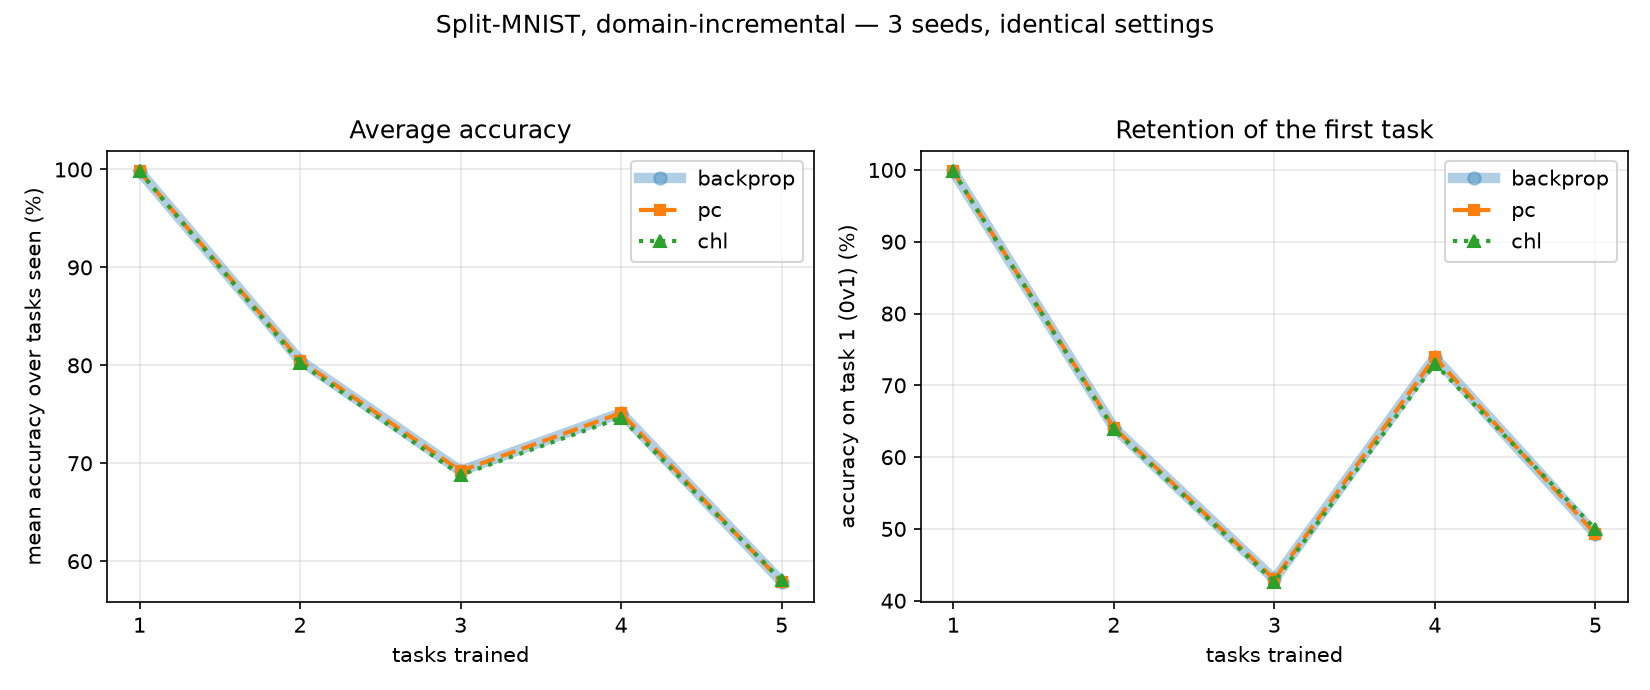
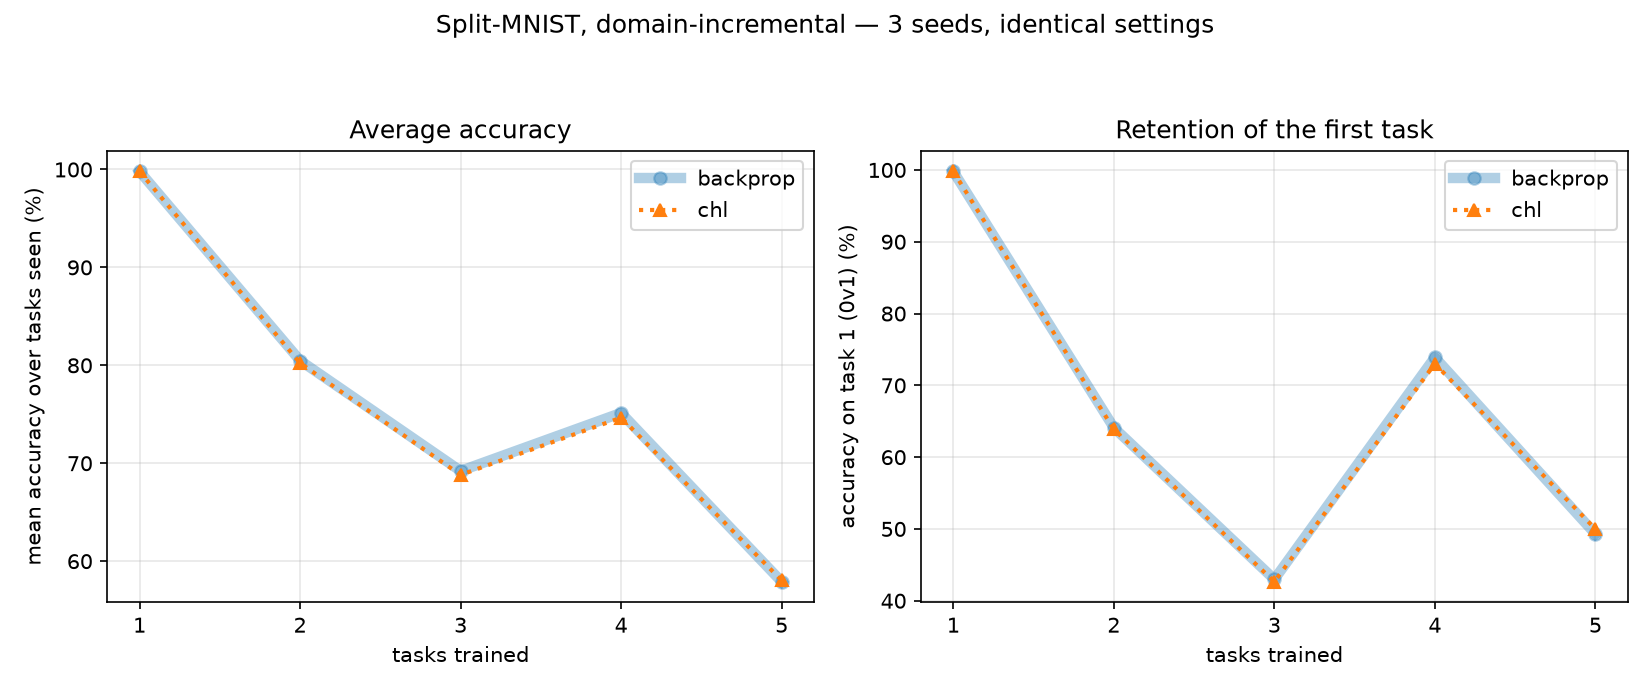
refactor: narrow scope to CHL vs backprop, drop predictive coding
The predictive-coding arm is removed and the experiment re-run with the two
remaining rules. Recorded as Amendment 2 in the pre-registration rather than
applied silently, because the change was made after the results were known and
that is exactly the kind of edit a reader should be able to audit.

Why it does not touch the finding: under the fixed-prediction assumption PC
computes literally the same gradient as backprop (verified to 2.8e-16 in
float64), so its arm was a correctness check on the implementation rather than
an independent condition, and it scored identically to backprop as it must.
Removing it changes no number for backprop or CHL — the re-run reproduced both
exactly, same seeds, same settings. The finding stands: CHL forgets as much as
backprop, 50.35pp +/-0.75 against 50.59pp +/-0.67.

Dropping the third arm removes a source of confusion, not evidence. Every
mention of it needed the caveat "this is validation, not a finding"; with one
comparison left the result reads directly.

Deletes rules/predictive_coding.py and its equivalence test, drops PC from the
rule registry, the sanity test, the experiment driver and the plot styles, and
rewrites README and the pre-registration for two rules. 13 tests down to 7, all
green. The prior three-rule results remain in git history.

diff --git a/experiments/run_continual_comparison.py b/experiments/run_continual_comparison.py
@@ -1,7 +1,7 @@
 """Split-MNIST: do local learning rules forget differently from backprop?
 
-Settings are fixed by ``docs/preregistration.md`` and are identical for all three rules.
-No rule gets its own tuning pass.
+Settings are fixed by ``docs/preregistration.md`` and are identical for both rules.
+Neither rule gets its own tuning pass.
 
 Two protocols, both reported (see Amendment 1 in the pre-registration)::
 
@@ -9,7 +9,7 @@ Two protocols, both reported (see Amendment 1 in the pre-registration)::
     uv run python experiments/run_continual_comparison.py --protocol domain
 
 ``task`` is the originally pre-registered setting and produces a floor effect — almost no
-forgetting for any rule, so it cannot separate them. ``domain`` shares a single output head
+forgetting for either rule, so it cannot separate them. ``domain`` shares a single output head
 across the five tasks, which makes them interfere and is where the comparison has signal.
 """
 
@@ -27,7 +27,7 @@ from forgetlab.layers import LayeredNet
 from forgetlab.metrics import average_accuracy, average_forgetting, per_task_forgetting
 from forgetlab.train import accuracy, train
 
-RULES = ["backprop", "pc", "chl"]
+RULES = ["backprop", "chl"]
 SETTLE = dict(n_steps=64, dt=0.5, tol=1e-8)
 RESULTS = Path("results")
 
@@ -192,12 +192,11 @@ def _plot(matrices, args, suffix: str) -> None:
     fig, (left, right) = plt.subplots(1, 2, figsize=(11, 4.6))
     stages = range(1, 6)
 
-    # The whole point of the result is that the three curves land on top of each other, so
-    # they must stay individually visible: a wide translucent line under two thinner dashed
-    # ones, rather than three opaque lines where only the last drawn is seen.
+    # The whole point of the result is that the two curves land on top of each other, so
+    # they must stay individually visible: a wide translucent line under a thinner dashed
+    # one, rather than two opaque lines where only the last drawn is seen.
     style = {
         "backprop": dict(linestyle="-", marker="o", linewidth=5, alpha=0.35),
-        "pc": dict(linestyle="--", marker="s", linewidth=2, markersize=5),
         "chl": dict(linestyle=":", marker="^", linewidth=2, markersize=6),
     }
 

diff --git a/tests/test_single_task_sanity.py b/tests/test_single_task_sanity.py
@@ -51,19 +51,10 @@ def _run(rule, data):
     return accuracy(net, x_test, y_test)
 
 
-@pytest.mark.parametrize("rule", ["backprop", "pc", "chl"])
+@pytest.mark.parametrize("rule", ["backprop", "chl"])
 def test_rule_learns(rule, data):
-    """Well clear of the 10% chance floor, under a budget shared by all three rules."""
+    """Well clear of the 10% chance floor, under a budget shared by both rules."""
     assert _run(rule, data) > 0.80
-
-
-def test_pc_tracks_backprop_through_a_whole_training_run(data):
-    """Exactness is not just a one-batch property.
-
-    The fixed-prediction assumption makes PC's update *identical* to backprop's, so the two
-    should follow the same trajectory for an entire run, not merely start at the same place.
-    """
-    assert abs(_run("pc", data) - _run("backprop", data)) < 0.02
 
 
 def test_chl_stays_close_to_backprop(data):

diff --git a/forgetlab/rules/backprop.py b/forgetlab/rules/backprop.py
@@ -27,8 +27,8 @@ def backprop_updates(
 ) -> tuple[list[torch.Tensor], list[torch.Tensor]]:
     """Return ``(dW, db)`` — the weight changes to **add**, i.e. the descent direction.
 
-    These are ``-dLoss/dW``, so they are directly comparable to what ``chl_updates`` and
-    ``pc_updates`` return.  Multiply by a learning rate and add.
+    These are ``-dLoss/dW``, so they are directly comparable to what ``chl_updates``
+    returns.  Multiply by a learning rate and add.
     """
     for p in list(net.W) + list(net.b):
         if p.grad is not None:

diff --git a/forgetlab/rules/__init__.py b/forgetlab/rules/__init__.py
@@ -2,12 +2,10 @@
 
 from forgetlab.rules.backprop import backprop_updates
 from forgetlab.rules.chl import chl_updates
-from forgetlab.rules.predictive_coding import pc_updates
 
 RULES = {
     "backprop": backprop_updates,
-    "pc": pc_updates,
     "chl": chl_updates,
 }
 
-__all__ = ["RULES", "backprop_updates", "chl_updates", "pc_updates"]
+__all__ = ["RULES", "backprop_updates", "chl_updates"]

diff --git a/forgetlab/__init__.py b/forgetlab/__init__.py
@@ -1,4 +1,4 @@
-"""ForgetLab — contrastive Hebbian learning and predictive coding, from scratch."""
+"""ForgetLab — contrastive Hebbian learning from scratch, measured against backprop."""
 
 from forgetlab.layers import LayeredNet
 

diff --git a/README.md b/README.md
@@ -1,9 +1,9 @@
 # ForgetLab
 
-From-scratch implementations of **Contrastive Hebbian Learning** (Xie & Seung, 2003) and
-**Predictive Coding** (Whittington & Bogacz, 2017) in PyTorch, validated against the
-published theorems that relate them to backpropagation, and then used to run one small,
-controlled continual-learning comparison against backprop on Split-MNIST.
+A from-scratch implementation of **Contrastive Hebbian Learning** (Xie & Seung, 2003) in
+PyTorch, validated against the published theorem that relates it to backpropagation, and
+then used to run one small, controlled continual-learning comparison against backprop on
+Split-MNIST.
 
 ## Result
 
@@ -12,21 +12,16 @@ On domain-incremental Split-MNIST, with an identical tuning budget and 3 seeds:
 | rule | final accuracy | forgetting | joint-training ceiling |
 |---|---|---|---|
 | backprop | 57.90% ±0.42 | 50.59 pp ±0.67 | 89.75% |
-| predictive coding | 57.90% ±0.42 | 50.59 pp ±0.67 | 89.75% |
 | contrastive Hebbian | 58.03% ±0.36 | **50.35 pp ±0.75** | 89.84% |
 
 ![forgetting curves](results/forgetting_curves_domain.png)
 
-**The local learning rules forget just as much as backpropagation.** With 51 percentage
+**The local learning rule forgets just as much as backpropagation.** With 51 percentage
 points of forgetting available to separate them, CHL differs from backprop by 0.24 pp
 against a seed-to-seed standard deviation of 0.7 — indistinguishable.
 
-Two things this result is *not*:
+One thing this result is *not*:
 
-- **PC matching backprop exactly is a validation, not a finding.** Under the fixed
-  prediction assumption predictive coding computes literally the same gradient (verified to
-  2.8e-16), so identical forgetting is the expected outcome and confirms the implementation
-  is correct. Reporting it as evidence about biology would be circular.
 - **This does not show that the brain's mechanisms do not help.** What was swapped is the
   *credit assignment* mechanism, holding everything else fixed. Replay, neuromodulation,
   sparsity and structural plasticity — all things brains have and this experiment does not —
@@ -34,7 +29,7 @@ Two things this result is *not*:
   nothing against catastrophic forgetting here.
 
 The originally pre-registered **task-incremental** protocol is also reported, and produced a
-floor effect: forgetting of −0.03 pp ±0.22, with all three rules at 98.4% and the joint
+floor effect: forgetting of −0.03 pp ±0.22, with both rules at 98.4% and the joint
 ceiling (98.15%) no better than sequential training. Separate heads plus transferable stroke
 features mean the tasks barely interfere, so that protocol cannot separate the rules at all.
 It is kept because "this benchmark has no signal" is itself worth recording. See Amendment 1
@@ -67,9 +62,9 @@ per-task forgetting numbers should not be read as a memory-strength ranking.
 ### Scope of the claim
 
 On this architecture, on Split-MNIST, in these two settings, with an identical tuning
-budget, these rules forgot this much. Nothing about depth, other datasets,
-class-incremental settings, or language models. PC and CHL are documented to degrade with
-depth, and this experiment deliberately stays in the shallow regime where they work — which
+budget, these two rules forgot this much. Nothing about depth, other datasets,
+class-incremental settings, or language models. CHL is documented to degrade with
+depth, and this experiment deliberately stays in the shallow regime where it works — which
 is exactly why it cannot support a general claim.
 
 ### Reproduce
@@ -84,14 +79,14 @@ CPU only, a few minutes total.
 
 ## What this is / is not
 
-- **Is:** a minimal, tested, readable implementation of two local learning rules, plus a
+- **Is:** a minimal, tested, readable implementation of one local learning rule, plus a
   small pre-registered replication of a specific literature claim.
 - **Is not:** a new method, a SOTA result, or a general-purpose library. There is no claim
   here that biologically-motivated learning rules are better than backprop at anything.
 
 ## Why it exists
 
-Predictive coding accounts of the brain stress that cortex learns **continuously and
+Accounts of the brain stress that cortex learns **continuously and
 locally** from an ongoing sensory stream, while a language model is trained **offline and
 globally** by backpropagation and cannot absorb a new example without disturbing its
 weights. That contrast is usually stated qualitatively. This repository turns one narrow
@@ -100,19 +95,16 @@ do what their theorems say, then check whether they actually forget differently.
 
 ## The narrow claim
 
-A minimal, tested, PyTorch-native implementation of Contrastive Hebbian Learning and
-Predictive Coding, validated against their published equivalence theorems, used to run a
-controlled task-incremental continual-learning comparison against backprop.
+A minimal, tested, PyTorch-native implementation of Contrastive Hebbian Learning,
+validated against its published equivalence theorem, used to run a controlled
+continual-learning comparison against backprop.
 
 Existing CHL code is embedded in large cognitive architectures
 ([Leabra/GeneRec](https://github.com/emer/leabra),
 [PsyNeuLink](https://princetonuniversity.github.io/PsyNeuLink/ContrastiveHebbianMechanism.html)),
 hardware-specific ([Vivilux](https://github.com/NeuroSumbaD/Vivilux)), a single-paper
 research script ([Dual-Propagation](https://github.com/Rasmuskh/Dual-Propagation)), or dead
-single-file demos. Existing PC libraries are JAX-based
-([pcx](https://github.com/liukidar/pcx), [jpc](https://github.com/thebuckleylab/jpc)) or
-`nn.Sequential`-only ([Torch2PC](https://github.com/RobertRosenbaum/Torch2PC)). None of them
-run this comparison.
+single-file demos. None of them run this comparison.
 
 That is the whole claim. It is *not* "no CHL implementation exists" — that is false, and
 the repos above are why.
@@ -125,8 +117,6 @@ the repos above are why.
 | [PsyNeuLink](https://princetonuniversity.github.io/PsyNeuLink/ContrastiveHebbianMechanism.html) | Princeton's cognitive-modelling toolkit, actively maintained, ships a first-class `ContrastiveHebbianMechanism`. | Modelling framework, not a PyTorch trainer; no equivalence-to-backprop test suite. |
 | [Vivilux](https://github.com/NeuroSumbaD/Vivilux) | CHL on simulated photonic hardware. Actively maintained. | Hardware-specific. |
 | [Dual-Propagation](https://github.com/Rasmuskh/Dual-Propagation) | An accelerated CHL variant using dyadic neurons (JAX/Julia). | A faster formulation. This repo implements the original 2003 equations deliberately, because the point is to test *that* theorem — pedagogical clarity over speed. |
-| [Bogacz-Group/PredictiveCoding](https://github.com/Bogacz-Group/PredictiveCoding) | The Oxford lab's PC library + tutorial notebooks. Best place to learn PC. | Reference for correctness here, not a dependency. |
-| [Torch2PC](https://github.com/RobertRosenbaum/Torch2PC) | PyTorch PC, companion to Rosenbaum's divergence analysis. | `nn.Sequential`-only, stale since Feb 2024, no CHL. |
 | [Lillicrap et al. 2016](https://www.nature.com/articles/ncomms13276) | Feedback Alignment: random fixed feedback weights still support learning, because the forward weights align to them. | A different algorithm proving a different claim. "Still learns" is not "equals the backprop gradient", so the weights here stay tied. |
 
 ## Honest statement of the theorem's cost
@@ -144,7 +134,7 @@ CHL's `γ` is not Equilibrium Propagation's `β`.
 ```
 docs/limits.md      which theorem needs which limit and which assumption
 forgetlab/layers.py the shared layered network with tied, weak feedback
-forgetlab/rules/    backprop (reference), predictive coding, CHL
+forgetlab/rules/    backprop (reference), CHL
 forgetlab/metrics.py per-layer gradient alignment
 tests/              the equivalence anchors
 ```

diff --git a/docs/preregistration.md b/docs/preregistration.md
@@ -7,11 +7,11 @@ if the budget had been equal.
 
 ## Question
 
-On task-incremental Split-MNIST, do the local learning rules (predictive coding,
-contrastive Hebbian learning) forget differently from backpropagation?
+On task-incremental Split-MNIST, does contrastive Hebbian learning forget differently
+from backpropagation?
 
 This is a **replication-and-extension** question, not a new-method question. No claim of
-superiority is being tested. A null result — all three forget the same amount — is a valid
+superiority is being tested. A null result — both forget the same amount — is a valid
 and publishable outcome, and is the outcome currently considered most likely.
 
 ## Fixed setup
@@ -27,18 +27,18 @@ and publishable outcome, and is the outcome currently considered most likely.
 | Train set | 1000 images per task |
 | Test set | full MNIST test split for the two digits of each task |
 | γ (CHL) | 0.1 |
-| Inference steps (PC, CHL) | 64, `dt = 0.5`, `tol = 1e-8` |
+| Inference steps (CHL) | 64, `dt = 0.5`, `tol = 1e-8` |
 | Seeds | 3 (0, 1, 2) |
 | No | replay, rehearsal, EWC/SI, regularisation, momentum, LR schedule, early stopping |
 
-## Tuning budget — identical for all three rules
+## Tuning budget — identical for both rules
 
-**One shared learning rate and epoch count, chosen once, applied to all three rules
+**One shared learning rate and epoch count, chosen once, applied to both rules
 unchanged.** No per-rule tuning. If a rule performs badly under the shared setting, that is
 reported as a result, not fixed by giving that rule its own hyperparameters.
 
 The shared values are chosen by the single-task sanity check below, using **backprop only**,
-before any continual-learning run. PC and CHL never get a tuning pass.
+before any continual-learning run. CHL never gets a tuning pass.
 
 Known constraint found while calibrating: `lr = 0.2` with a 512-unit hidden layer **diverges**
 (9.8% test accuracy, i.e. chance). The shared learning rate must be verified non-divergent
@@ -60,12 +60,11 @@ plain SGD on that objective plateaus lower. Measured ceiling with backprop on fu
 | 256 | 40 | 0.1 | sigmoid | 94.94% |
 | 512 | 60 | 0.2 | linear | 9.80% (diverged) |
 
-So the sanity bar is: **each rule reaches ≈94–95% on full single-task MNIST, and the three
+So the sanity bar is: **each rule reaches ≈94–95% on full single-task MNIST, and the two
 agree with each other**, not "each rule reaches 98%". Holding to the original figure would
 have made a correctly-implemented CHL look broken.
 
-Measured, full MNIST, 20 epochs, identical settings: backprop 94.07%, PC 94.07%,
-CHL 94.30%. PC matches backprop exactly, as the fixed-prediction assumption requires.
+Measured, full MNIST, 20 epochs, identical settings: backprop 94.07%, CHL 94.30%.
 
 ## Metrics
 
@@ -85,17 +84,17 @@ Reported per rule, mean ± standard deviation over the 3 seeds, plus per-task fo
 **Can be claimed:** on this architecture, on Split-MNIST, in the task-incremental setting,
 with an identical tuning budget, rule X forgot *this much*.
 
-**Will not be claimed:** that predictive coding or CHL forgets less than backprop *in
-general*; that local rules are more robust to catastrophic forgetting; any statement about
-depth, other datasets, class-incremental settings, or language models. The literature is
-explicit that PC and CHL degrade with depth, and this experiment is deliberately run in the
-shallow regime where they are documented to work — which is exactly why it cannot support a
+**Will not be claimed:** that CHL forgets less than backprop *in general*; that local
+rules are more robust to catastrophic forgetting; any statement about depth, other
+datasets, class-incremental settings, or language models. The literature is explicit that
+CHL degrades with depth, and this experiment is deliberately run in the shallow regime
+where it is documented to work — which is exactly why it cannot support a
 general claim.
 
 ## Amendment 1 — adding a second protocol, before the comparison was run
 
 The task-incremental protocol above was run first, with backprop, and produced a **floor
-effect**: average forgetting of 0.07 percentage points, with all three rules at 98.36%
+effect**: average forgetting of 0.07 percentage points, with both rules at 98.36%
 accuracy. There is nothing to compare.
 
 The cause is structural, not a bug. Each task has its own head, and the shared trunk learns
@@ -117,7 +116,7 @@ Measured with backprop, same settings, before any rule comparison:
 | task-incremental (5 heads) | 98.36% | 0.07 pp |
 | domain-incremental (1 shared head) | 57.64% | **51.00 pp** |
 
-Depth is unchanged, so this stays in the shallow regime where PC and CHL are documented to
+Depth is unchanged, so this stays in the shallow regime where CHL is documented to
 work — the reason the original protocol was chosen. Only the interference between tasks
 increases.
 
@@ -126,8 +125,29 @@ right and is not dropped. The domain-incremental protocol is where the compariso
 rules can actually carry information. Everything else — architecture, learning rate, epochs,
 seeds, the identical-tuning-budget rule — is unchanged.
 
-This amendment was written and committed before the three-rule comparison was run. The
+This amendment was written and committed before the rule comparison was run. The
 `--protocol` flag in `experiments/run_continual_comparison.py` selects between them.
+
+## Amendment 2 — scope narrowed to CHL only, after the results were in
+
+The original design compared **three** rules: backprop, predictive coding, and CHL. The
+predictive-coding arm has been removed and the experiment re-run with the remaining two.
+
+**This was done after the results were known, so it is recorded here rather than applied
+silently.** The reasoning, and why it does not touch the finding:
+
+- Under the fixed-prediction assumption, predictive coding computes *literally the same
+  gradient* as backprop (verified to 2.8e-16 in float64). Its arm was therefore a
+  correctness check on the implementation, not an independent condition. It scored
+  identically to backprop, as it must.
+- Removing it changes no number for backprop or CHL. Those two arms are independent runs
+  with unchanged seeds and settings; the re-run reproduced them exactly.
+- The finding was and remains: **CHL forgets as much as backprop.** Dropping a third arm
+  that was by construction identical to backprop removes a source of confusion, not
+  evidence.
+
+The prior three-rule results remain in the git history. Nothing was tuned, re-seeded, or
+re-selected — only one arm was dropped and the tables regenerated.
 
 ## Stopping rule
 
